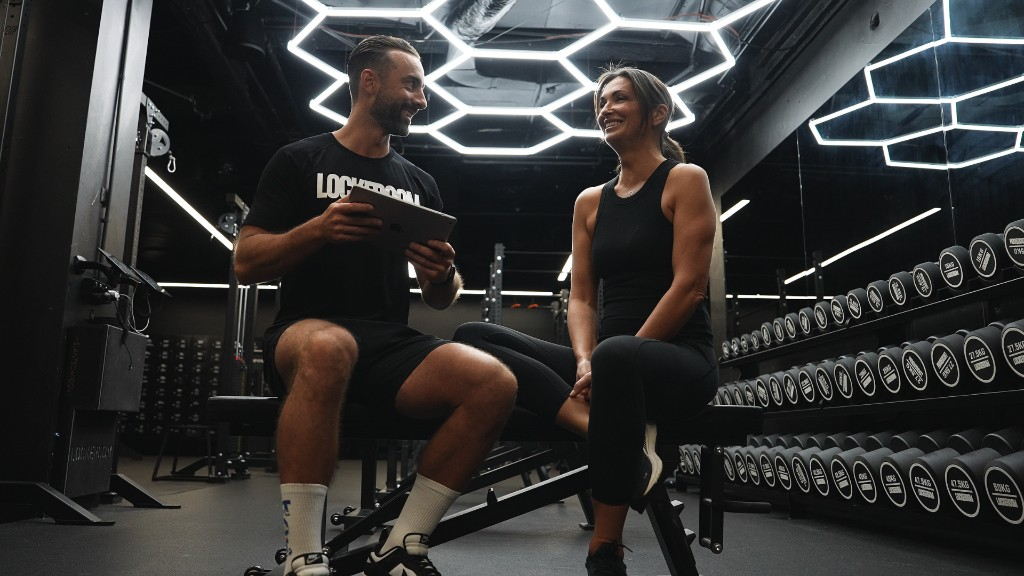
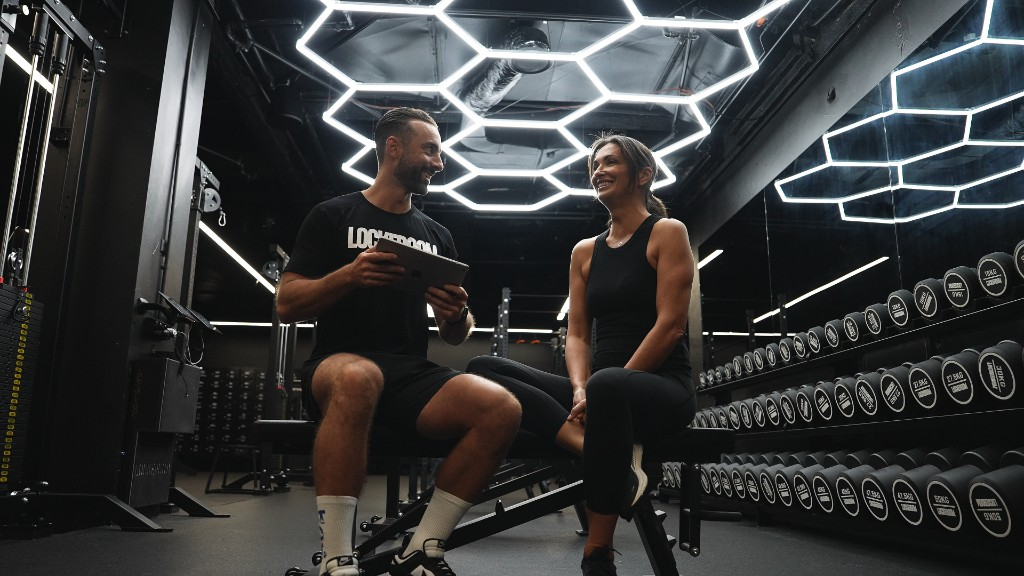
Increase all text sizes, swap to high-res hero, fix card alignment
- Base font bumped from 10pt to 13pt
- All headings, subtitles, card labels, scores, badges, table cells,
  biomarkers, detail body, why cards, and congrats text scaled up
- Results table cell padding increased for readability
- Health score card top-aligned with biomarkers list (align-items: flex-start)
- Hero image replaced with higher quality version
- Cover overlay logo and client line sizes bumped

Made-with: Cursor

diff --git a/reporting/template.html b/reporting/template.html
@@ -43,8 +43,8 @@ html, body {
   background: var(--black);
   color: var(--white);
   font-family: var(--font-body);
-  font-size: 10pt;
-  line-height: 1.55;
+  font-size: 13pt;
+  line-height: 1.5;
   -webkit-print-color-adjust: exact;
   print-color-adjust: exact;
 }
@@ -64,32 +64,32 @@ html, body {
   position: absolute; bottom: 8mm; left: 20mm; right: 20mm;
   display: flex; justify-content: space-between; align-items: center;
 }
-.page-footer .logo-sm { height: 14px; width: auto; object-fit: contain; opacity: .5; }
+.page-footer .logo-sm { height: 16px; width: auto; object-fit: contain; opacity: .5; }
 .page-footer .page-num {
-  font-family: var(--font-data); font-size: .55rem; color: var(--text-tertiary);
+  font-family: var(--font-data); font-size: .7rem; color: var(--text-tertiary);
 }
 
 /* ===== LOGO ===== */
 .logo { display: block; object-fit: contain; }
-.logo-header { height: 22px; width: auto; margin-bottom: 16px; }
+.logo-header { height: 28px; width: auto; margin-bottom: 14px; }
 
 /* ===== TYPOGRAPHY ===== */
 h1 {
-  font-family: var(--font-heading); font-size: 2.2rem; font-weight: 700;
+  font-family: var(--font-heading); font-size: 2.4rem; font-weight: 700;
   color: var(--white); line-height: 1.15;
 }
 h1 em { font-style: italic; }
 h2 {
-  font-family: var(--font-heading); font-size: 1.25rem; font-weight: 700;
-  color: var(--white); margin-bottom: .5rem;
+  font-family: var(--font-heading); font-size: 1.5rem; font-weight: 700;
+  color: var(--white); margin-bottom: .4rem;
 }
 h3 {
-  font-family: var(--font-heading); font-size: .95rem; font-weight: 600;
-  color: var(--white); margin-bottom: .35rem;
+  font-family: var(--font-heading); font-size: 1.1rem; font-weight: 600;
+  color: var(--white); margin-bottom: .3rem;
 }
 .subtitle {
-  font-family: var(--font-body); color: var(--text-secondary); font-size: .75rem;
-  line-height: 1.55; margin-top: .2rem;
+  font-family: var(--font-body); color: var(--text-secondary); font-size: .85rem;
+  line-height: 1.5; margin-top: .2rem;
 }
 .data-text { font-family: var(--font-data); }
 .divider {
@@ -100,25 +100,25 @@ h3 {
 
 /* ===== SCORE CARD ===== */
 .score-card {
-  background: var(--card); border-radius: var(--radius); padding: 16px 12px;
+  background: var(--card); border-radius: var(--radius); padding: 18px 14px;
   text-align: center; display: flex; flex-direction: column;
   align-items: center; justify-content: center;
 }
 .score-card .label {
-  font-family: var(--font-data); font-size: .7rem; font-weight: 600;
+  font-family: var(--font-data); font-size: .85rem; font-weight: 600;
   color: var(--white); margin-bottom: 4px; letter-spacing: .02em;
 }
 .score-card .score {
-  font-family: var(--font-data); font-size: 1.65rem; font-weight: 700; color: var(--white);
+  font-family: var(--font-data); font-size: 2rem; font-weight: 700; color: var(--white);
 }
 .score-card .score span {
-  font-size: .85rem; font-weight: 400; color: var(--text-secondary);
+  font-size: 1rem; font-weight: 400; color: var(--text-secondary);
 }
 
 /* ===== BADGE ===== */
 .badge {
-  display: inline-block; padding: 3px 10px; border-radius: 999px;
-  font-family: var(--font-data); font-size: .55rem; font-weight: 600;
+  display: inline-block; padding: 4px 12px; border-radius: 999px;
+  font-family: var(--font-data); font-size: .7rem; font-weight: 600;
   margin-top: 6px;
 }
 .badge-1 { background: var(--s1bg); color: var(--s1); }
@@ -142,9 +142,9 @@ h3 {
 .cover-bottom {
   display: flex; align-items: center; gap: 14px; margin-top: 8px;
 }
-.cover-bottom .logo-cover { height: 18px; width: auto; object-fit: contain; }
+.cover-bottom .logo-cover { height: 22px; width: auto; object-fit: contain; }
 .cover-bottom .client-line {
-  font-family: var(--font-body); font-size: .8rem; color: var(--text-secondary);
+  font-family: var(--font-body); font-size: .95rem; color: var(--text-secondary);
 }
 
 /* ===== JOURNEY ===== */
@@ -154,11 +154,11 @@ h3 {
   display: flex; flex-direction: column;
 }
 .stage-card .stage-name {
-  font-family: var(--font-data); font-weight: 700; font-size: .75rem;
+  font-family: var(--font-data); font-weight: 700; font-size: .9rem;
   color: var(--white); margin-bottom: 4px;
 }
 .stage-card .stage-desc {
-  font-family: var(--font-body); font-size: .55rem; color: var(--text-secondary);
+  font-family: var(--font-body); font-size: .7rem; color: var(--text-secondary);
   line-height: 1.5; flex: 1;
 }
 .stage-card .stage-range { margin-top: 8px; }
@@ -169,7 +169,7 @@ h3 {
 }
 .stage-bar div {
   flex: 1; display: flex; align-items: center; justify-content: center;
-  font-family: var(--font-data); font-size: .5rem; font-weight: 700; color: #fff;
+  font-family: var(--font-data); font-size: .7rem; font-weight: 700; color: #fff;
 }
 .stage-bar .sb1 { background: var(--s1); }
 .stage-bar .sb2 { background: var(--s2); }
@@ -178,15 +178,15 @@ h3 {
 
 /* ===== RESULTS TABLE ===== */
 .results-meta {
-  font-family: var(--font-data); font-size: .6rem; color: var(--text-tertiary);
+  font-family: var(--font-data); font-size: .75rem; color: var(--text-tertiary);
   margin-bottom: 8px;
 }
 .results-table {
   width: 100%; border-collapse: collapse;
-  font-family: var(--font-data); font-size: .5rem;
+  font-family: var(--font-data); font-size: .7rem;
 }
 .results-table th, .results-table td {
-  padding: 3.5px 5px; border: 1px solid var(--divider-dark); vertical-align: middle;
+  padding: 6px 8px; border: 1px solid var(--divider-dark); vertical-align: middle;
 }
 .results-table thead th {
   background: #1a1a1a; color: var(--text-secondary); font-weight: 600; text-align: center;
@@ -194,13 +194,13 @@ h3 {
 .results-table .pillar-cell {
   background: var(--card); color: var(--s2); font-weight: 700;
   text-align: center; writing-mode: vertical-rl; text-orientation: mixed;
-  letter-spacing: .04em; font-size: .5rem; width: 18px;
+  letter-spacing: .04em; font-size: .7rem; width: 24px;
 }
 .results-table .test-name { color: var(--white); font-weight: 500; white-space: nowrap; }
-.results-table .result-cell { text-align: center; font-weight: 700; color: var(--white); font-size: .55rem; }
+.results-table .result-cell { text-align: center; font-weight: 700; color: var(--white); font-size: .75rem; }
 .results-table .stage-cell {
-  text-align: center; color: var(--text-tertiary); font-size: .42rem;
-  line-height: 1.35; white-space: pre-line;
+  text-align: center; color: var(--text-tertiary); font-size: .6rem;
+  line-height: 1.4; white-space: pre-line;
 }
 .results-table .stage-cell.active-1 { background: var(--s1bg); color: var(--s1); font-weight: 600; }
 .results-table .stage-cell.active-2 { background: var(--s2bg); color: var(--s2); font-weight: 600; }
@@ -213,27 +213,27 @@ h3 {
 
 /* ===== DETAIL SECTIONS ===== */
 .section { margin-top: 22px; }
-.detail-row { display: flex; align-items: flex-start; gap: 16px; }
-.detail-row .score-card { min-width: 120px; }
+.detail-row { display: flex; align-items: flex-start; gap: 18px; }
+.detail-row .score-card { min-width: 140px; align-self: flex-start; }
 .detail-body {
   font-family: var(--font-body); color: var(--text-secondary);
-  font-size: .72rem; line-height: 1.6; flex: 1;
+  font-size: .9rem; line-height: 1.55; flex: 1;
 }
-.detail-body p { margin-bottom: .4rem; }
+.detail-body p { margin-bottom: .5rem; }
 .detail-body strong { color: var(--white); }
 
 .biomarkers { list-style: none; margin-top: 8px; }
 .biomarkers li {
-  padding: 6px 10px; background: var(--card); border-radius: var(--radius);
-  margin-bottom: 4px; font-family: var(--font-data); font-size: .65rem; color: var(--white);
+  padding: 8px 12px; background: var(--card); border-radius: var(--radius);
+  margin-bottom: 5px; font-family: var(--font-data); font-size: .8rem; color: var(--white);
 }
 .biomarkers li span { color: var(--text-tertiary); margin-right: 6px; }
 
 /* VO2 scale */
-.vo2-scale { display: flex; border-radius: var(--radius); overflow: hidden; margin-top: 10px; }
+.vo2-scale { display: flex; border-radius: var(--radius); overflow: hidden; margin-top: 12px; }
 .vo2-seg {
-  flex: 1; padding: 8px 4px; text-align: center;
-  font-family: var(--font-data); font-size: .5rem; font-weight: 600;
+  flex: 1; padding: 10px 6px; text-align: center;
+  font-family: var(--font-data); font-size: .7rem; font-weight: 600;
   color: rgba(255,255,255,.6);
 }
 .vo2-seg.seg1 { background: rgba(107,20,20,.3); }
@@ -241,26 +241,26 @@ h3 {
 .vo2-seg.seg3 { background: rgba(134,137,27,.3); }
 .vo2-seg.seg4 { background: rgba(54,106,96,.3); }
 .vo2-seg.highlighted { outline: 2px solid var(--s2); outline-offset: -2px; border-radius: 4px; }
-.vo2-seg .seg-label { display: block; font-size: .45rem; color: var(--text-tertiary); margin-top: 2px; }
+.vo2-seg .seg-label { display: block; font-size: .6rem; color: var(--text-tertiary); margin-top: 2px; }
 
 /* Strength equation */
 .str-equation {
-  display: flex; align-items: center; justify-content: center; gap: 10px;
-  margin: 14px 0; flex-wrap: wrap;
+  display: flex; align-items: center; justify-content: center; gap: 14px;
+  margin: 16px 0; flex-wrap: wrap;
 }
 .str-equation .op {
-  font-family: var(--font-data); font-size: 1.2rem; font-weight: 300; color: var(--text-tertiary);
+  font-family: var(--font-data); font-size: 1.5rem; font-weight: 300; color: var(--text-tertiary);
 }
-.str-equation .score-card { min-width: 100px; flex: 1; }
+.str-equation .score-card { min-width: 120px; flex: 1; }
 
 /* Bonus */
-.bonus-cards { display: grid; grid-template-columns: 1fr 1fr; gap: 14px; margin-top: 14px; }
+.bonus-cards { display: grid; grid-template-columns: 1fr 1fr; gap: 16px; margin-top: 16px; }
 
 /* Why grid */
-.why-grid { display: grid; grid-template-columns: repeat(3, 1fr); gap: 10px; margin-top: 14px; }
-.why-card { background: var(--card); border-radius: var(--radius); padding: 12px; }
-.why-card h3 { font-family: var(--font-data); font-size: .65rem; color: var(--s2); margin-bottom: 6px; }
-.why-card p { font-family: var(--font-body); font-size: .5rem; color: var(--text-secondary); line-height: 1.55; margin-bottom: 3px; }
+.why-grid { display: grid; grid-template-columns: repeat(3, 1fr); gap: 14px; margin-top: 16px; }
+.why-card { background: var(--card); border-radius: var(--radius); padding: 14px; }
+.why-card h3 { font-family: var(--font-data); font-size: .8rem; color: var(--s2); margin-bottom: 6px; }
+.why-card p { font-family: var(--font-body); font-size: .7rem; color: var(--text-secondary); line-height: 1.55; margin-bottom: 4px; }
 .why-card strong { color: var(--white); }
 
 /* Congrats */
@@ -268,10 +268,10 @@ h3 {
   display: flex; flex-direction: column; justify-content: center;
   align-items: center; text-align: center;
 }
-.congrats h1 { font-size: 2rem; max-width: 80%; margin-bottom: 16px; }
+.congrats h1 { font-size: 2.2rem; max-width: 80%; margin-bottom: 16px; }
 .congrats p {
   font-family: var(--font-body); color: var(--text-secondary);
-  font-size: .8rem; max-width: 72%; line-height: 1.7; margin-bottom: 8px;
+  font-size: .95rem; max-width: 72%; line-height: 1.65; margin-bottom: 8px;
 }
 
 /* Back cover */
